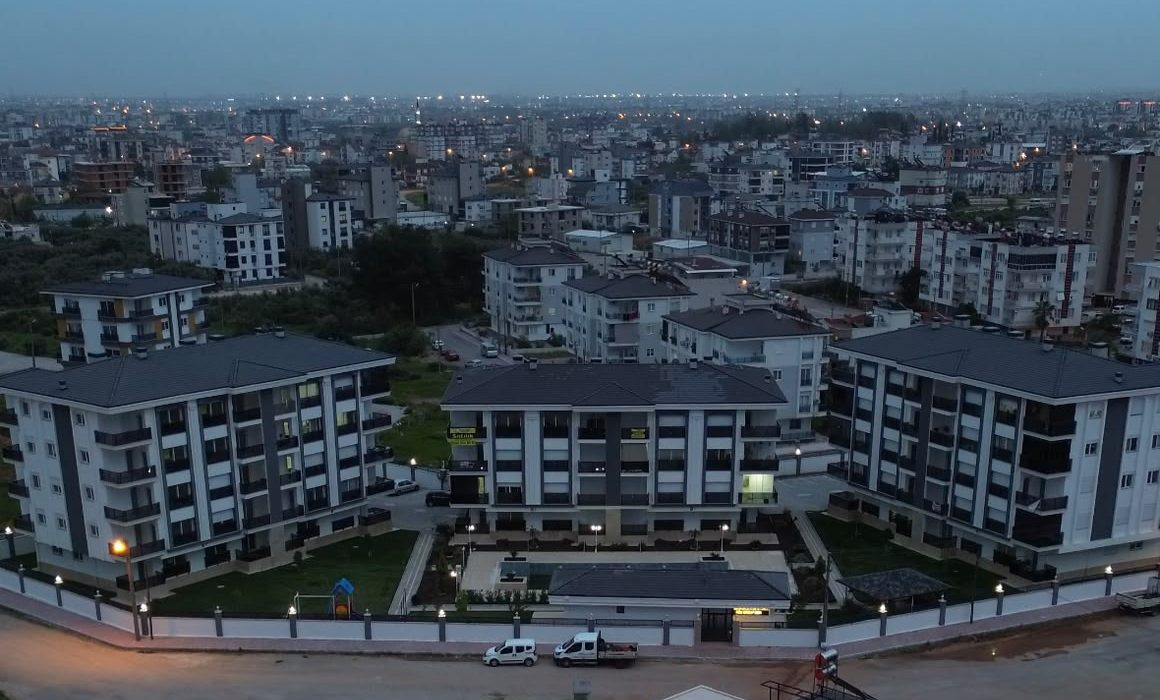
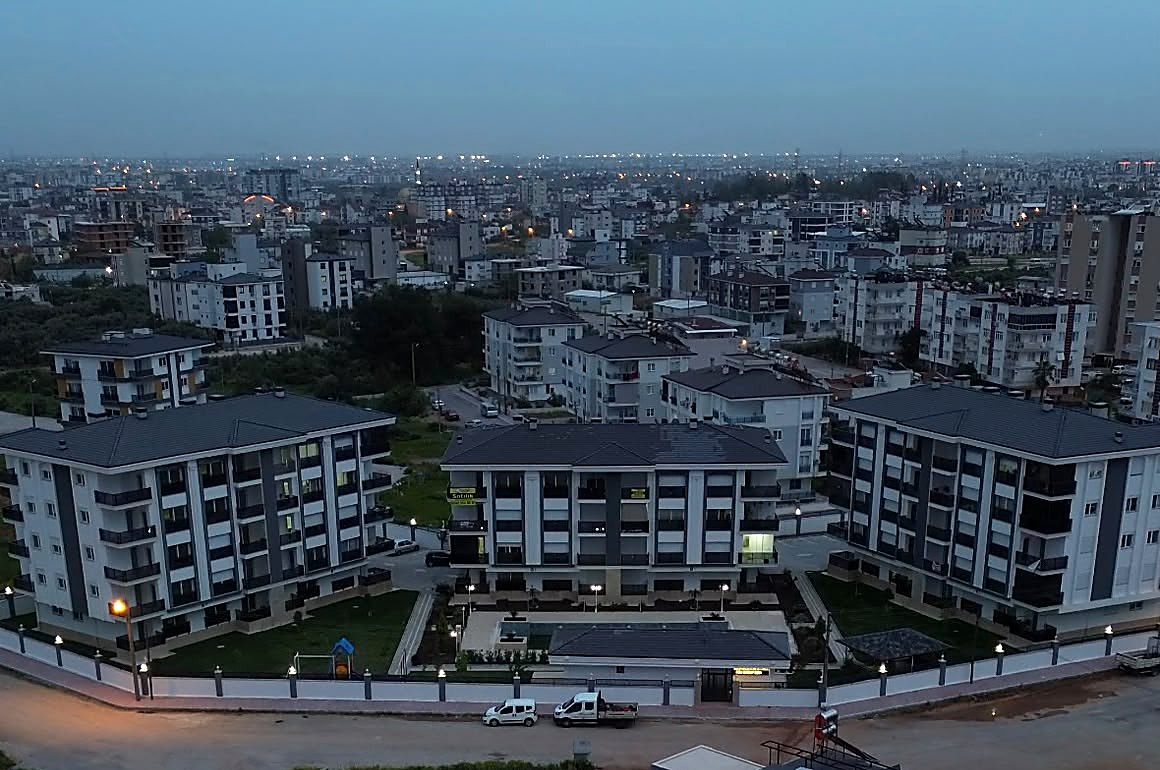
Giriş fotoğrafı: geniş ekranda büyütülmeden ve netleştirilmiş, kenarlar bulanık zemin
Claude-Session: https://claude.ai/code/session_01ALhEJLKVHLJHkKMS5Wm9jB

diff --git a/index.html b/index.html
@@ -14,6 +14,7 @@
 <meta name="apple-mobile-web-app-title" content="Ustatahir">
 <link rel="preload" as="image" href="img/site-giris.jpg" media="(max-aspect-ratio: 5/4)">
 <link rel="preload" as="image" href="img/site-giris-genis.jpg" media="(min-aspect-ratio: 5/4)">
+<link rel="preload" as="image" href="img/site-giris-bulanik.jpg" media="(min-aspect-ratio: 5/4)">
 <title>Ustatahir Konutları</title>
 <link rel="preconnect" href="https://fonts.googleapis.com">
 <link rel="preconnect" href="https://fonts.gstatic.com" crossorigin>
@@ -344,9 +345,13 @@ body:not(.loginbg) .credit{display:none}
   .gst{flex-direction:row;align-items:baseline;flex-wrap:wrap;column-gap:8px}
   .gst .l{flex:1 1 auto} .gst b{order:3;margin-left:auto} .gst .s{order:2;flex-basis:100%;order:4}
 }
-/* giriş: geniş ekranlarda sitenin göründüğü yatay kırpım */
+/* giriş: geniş ekranlarda fotoğraf büyütülmeden, tam yükseklikte ve net gösterilir; kenarlar bulanık zeminle tamamlanır */
 @media (min-aspect-ratio: 5/4){
-  body.loginbg::before{background:linear-gradient(180deg,rgba(12,28,34,.55) 0%,rgba(12,28,34,.3) 40%,rgba(12,28,34,.15) 70%,rgba(12,28,34,.55) 100%),url(img/site-giris-genis.jpg) center 85%/cover no-repeat}
+  body.loginbg::before{background:linear-gradient(180deg,rgba(12,28,34,.35),rgba(12,28,34,.55)),url(img/site-giris-bulanik.jpg) center/cover no-repeat}
+  body.loginbg::after{content:"";position:fixed;inset:0;z-index:-1;pointer-events:none;
+    background:linear-gradient(180deg,rgba(12,28,34,.5) 0%,rgba(12,28,34,.2) 35%,rgba(12,28,34,.1) 70%,rgba(12,28,34,.45) 100%),url(img/site-giris-genis.jpg) center bottom/auto 100% no-repeat;
+    -webkit-mask-image:linear-gradient(90deg,transparent calc(50% - 75vh),#000 calc(50% - 60vh),#000 calc(50% + 60vh),transparent calc(50% + 75vh));
+            mask-image:linear-gradient(90deg,transparent calc(50% - 75vh),#000 calc(50% - 60vh),#000 calc(50% + 60vh),transparent calc(50% + 75vh))}
 }
 body.loginbg .pwaslot{max-width:440px;margin:14px auto 0}
 body.loginbg .pwaslot .pwacard{background:rgba(255,255,255,.9);-webkit-backdrop-filter:blur(10px);backdrop-filter:blur(10px);box-shadow:0 12px 30px rgba(0,0,0,.3)}

diff --git a/sw.js b/sw.js
@@ -1,8 +1,8 @@
 // Ustatahir Konutları: çevrimdışı açılış için basit önbellek.
 // Önce ağdan alır (her zaman en güncel sürüm), ağ yoksa son kaydedilen sürümü gösterir.
 // Yalnızca bu sitenin kendi dosyaları önbelleğe alınır; Firebase verileri hiç önbelleğe girmez.
-const CACHE = 'ustatahir-v2';
-const CORE = ['./', './index.html', './manifest.webmanifest', './img/icon-192.png', './img/site-giris.jpg', './img/site-giris-genis.jpg', './img/site-baslik.jpg'];
+const CACHE = 'ustatahir-v3';
+const CORE = ['./', './index.html', './manifest.webmanifest', './img/icon-192.png', './img/site-giris.jpg', './img/site-giris-genis.jpg', './img/site-giris-bulanik.jpg', './img/site-baslik.jpg'];
 
 self.addEventListener('install', e => {
   e.waitUntil(caches.open(CACHE).then(c => c.addAll(CORE)).catch(() => {}).then(() => self.skipWaiting()));
